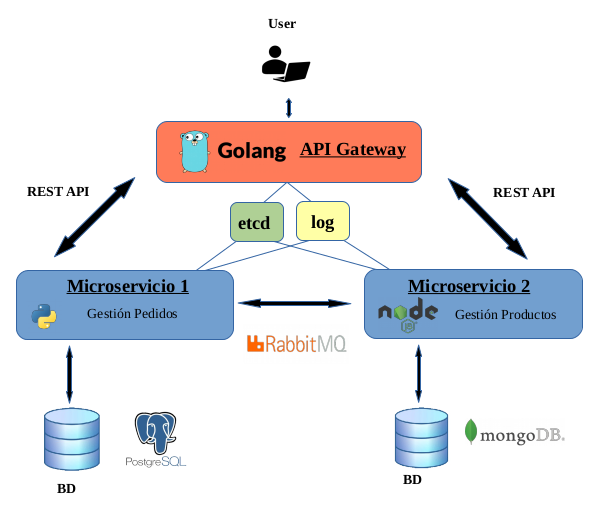
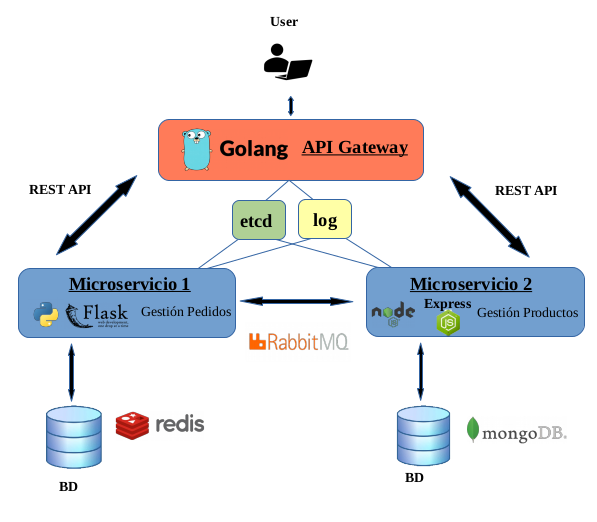
Cambiando elección de BD PostgreSQL por Redis

Changed region(s): [[0.0, 0.0297, 0.995, 0.9802], [0.0302, 0.3564, 0.1508, 0.3861]]

diff --git a/README.md b/README.md
@@ -34,7 +34,7 @@ Se utilizará una arquitectura basada en microservicios en el que existirá un m
 
 Los usuarios mandarán las peticiones a una **API Gateway** que será la encargada de redireccionar las peticiones al microservicio correspondiente. Esta API Gateway será implementada con el lenguaje **Go**, ya que se conseguirá que la API sea concurrente de una forma sencilla.  
 
-El **Microservicio 1** se encargará de gestionar los pedidos, de forma que se pueda crear un nuevo pedido, consultar los pedidos, borrarlos o modificarlos. Este microservicio será implementado en **Python** y como framework utilizaré **Flask** por la sencillez de implementación. Para almacenar la información usaré **PostgreSQL** por su gran rendimiento.  
+El **Microservicio 1** se encargará de gestionar los pedidos, de forma que se pueda crear un nuevo pedido, consultar los pedidos, borrarlos o modificarlos. Este microservicio será implementado en **Python** y como framework utilizaré **Flask** por la sencillez de implementación. Para almacenar la información usaré **Redis**, que esta basado en tablas de hashes (clave/valor).  
 
 El **Microservicio 2** se encargará de gestionar los productos, de forma que se pueda crear un nuevo producto, consultarlos, modificarlos o borrarlos. Este microservicio será implementado en **Node.js** y como framework utilizaré **Express**, ya que es uno de los frameworks más utilizados junto a Node.js.  
 
